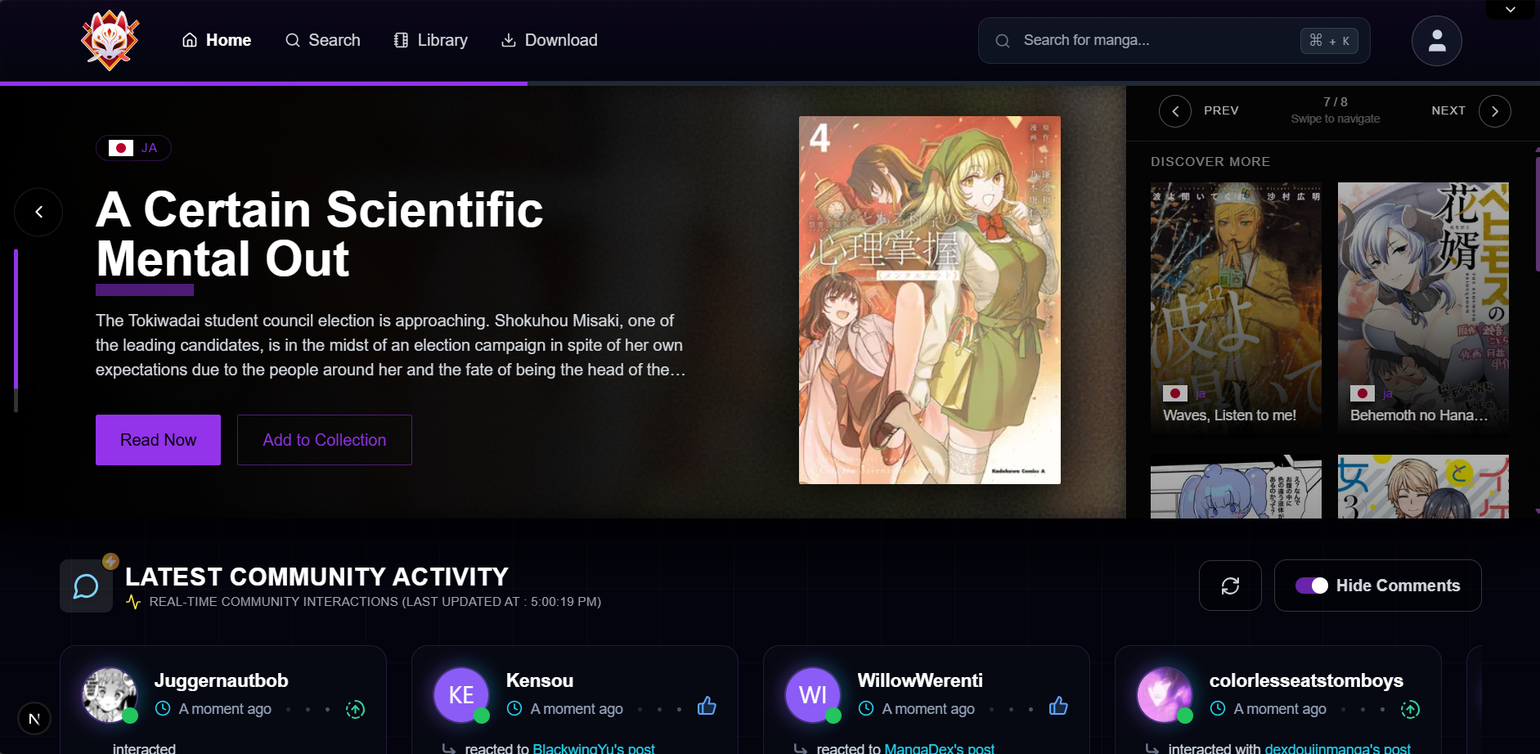
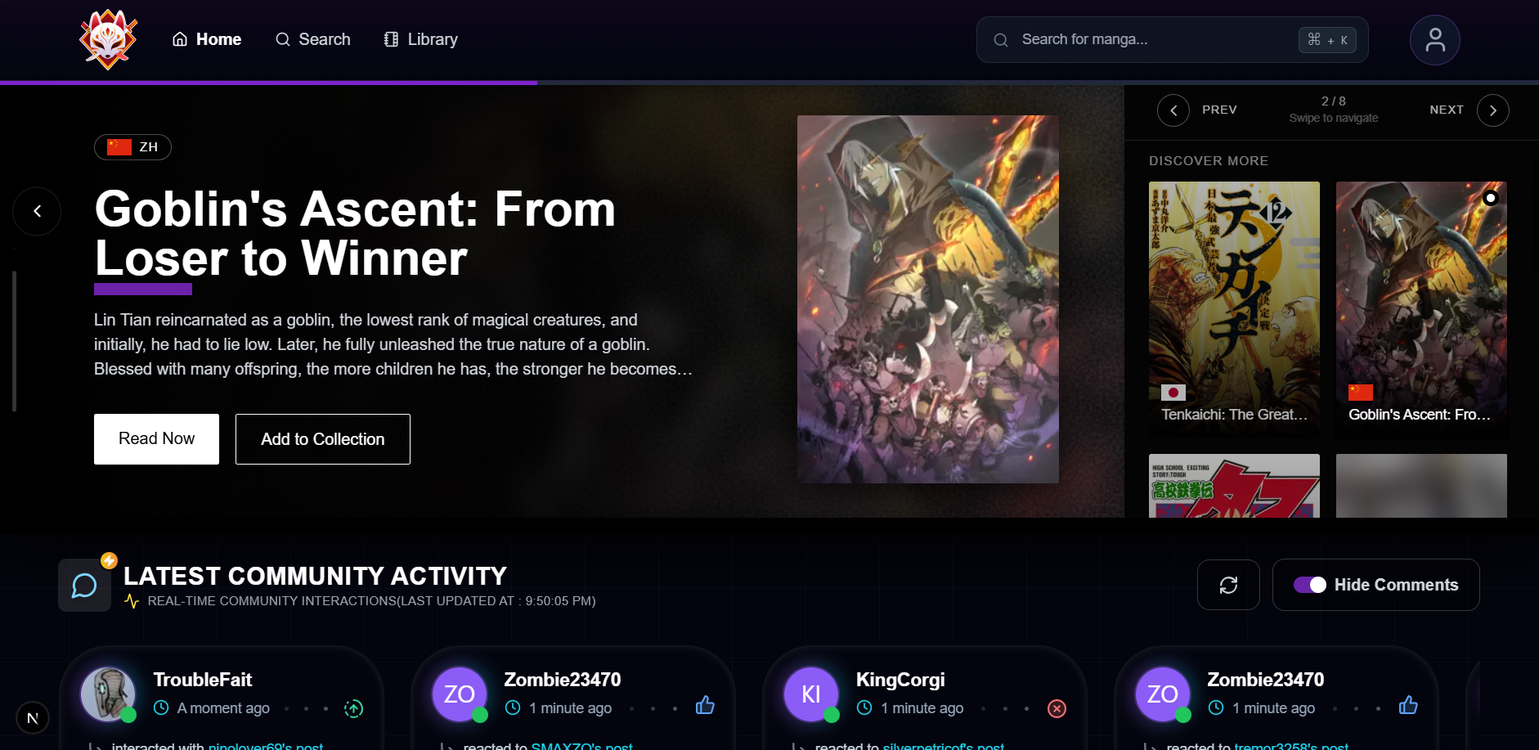
feat: Revamp MangaReadHistory component with enhanced UI and fixed the Ui bugs in LatestActivity - tried fixing multiple fetches of same thing over and over in manga-list - updated demo image of manga-list

diff --git a/app/Components/MangaListComponents/MangaReadHistory.jsx b/app/Components/MangaListComponents/MangaReadHistory.jsx
@@ -2,7 +2,7 @@
 import React, { useState, useEffect, useCallback, useMemo } from 'react';
 import Link from 'next/link';
 import { useManga } from '../../providers/MangaContext';
-import { BookOpen, ChevronDown, ChevronUp, Clock, TrendingUp, Eye, BookOpenCheck } from 'lucide-react';
+import { BookOpen, ChevronDown, ChevronUp, TrendingUp, Eye, BookOpenCheck, ArrowBigRightDash, Activity } from 'lucide-react';
 import Image from 'next/image';
 import MangaReadHistorySkeleton from '../Skeletons/MangaList/MangaReadHistorySkeleton';
 import { useTheme } from '../../providers/ThemeContext';
@@ -19,6 +19,7 @@ function MangaReadHistory() {
         const history = getAllFromReadHistory();
         setReadHistory(history ?? []);
     }, [getAllFromReadHistory]);
+    console.log(readHistory);
 
     const handleMangaCoverImageClicked = useCallback(
         (manga) => {
@@ -49,12 +50,12 @@ function MangaReadHistory() {
         }
 
         const totalChapters = item.allChaptersList.length;
-        const currentChapter = item.allChaptersList.findIndex(i => i.id === item.chapters[0].id) ?? 0;
-        const percentage = Math.min((currentChapter / totalChapters) * 100, 100);
+        // const currentChapter = item.allChaptersList.findIndex(i => i.id === item.chapters[0].id) ?? 0;
+        const percentage = Math.min((item.chapters.length / totalChapters) * 100, 100);
 
         return {
             percentage: Math.round(percentage),
-            current: currentChapter,
+            current: item?.chapters?.length,
             total: totalChapters,
         };
     }, []);
@@ -94,7 +95,7 @@ function MangaReadHistory() {
     if (readHistory.length == 0) return null
     return (
         <div className="w-[100% -12px] mx-2 md:ml-2 md:px-6 mb-6">
-            <div className="flex mb-7 items-center justify-between">
+            <div className="flex mb-7 items-center px-1.5 justify-between">
                 <div className="flex items-center gap-3">
                     <div className={`${isDark ? "bg-white/10" : "bg-gray-200/50"} p-3 rounded-lg`}>
                         <BookOpenCheck className={`w-6 h-6 ${isDark ? "text-cyan-300" : "text-cyan-600"} drop-shadow-md`} />
@@ -108,175 +109,149 @@ function MangaReadHistory() {
                         )}
                     </div>
                 </div>
-                <Link href={"/library"} onClick={() => window.scrollTo({ top: 0, behavior: 'smooth' })} className={`flex items-center gap-1.5 px-3 py-3.5 rounded-md text-sm ${isDark ? "text-gray-300 hover:text-white hover:bg-gray-800/50 border-gray-700/50" : "text-gray-600 hover:text-gray-900 hover:bg-gray-200/50 border-gray-300/50"} transition-all duration-200 border`}>
-                    <Eye className="w-4 h-4" />
-                    View All
+                <Link href={"/library"} onClick={() => window.scrollTo({ top: 0, behavior: 'smooth' })} className={`flex items-center gap-1.5 px-4 py-4 rounded-2xl text-sm ${isDark ? "text-gray-300 hover:text-white hover:bg-gray-800/50 border-gray-700/0  shadow-[inset_0_0_7px_rgba(200,200,200,0.16)]" : "text-gray-600 hover:text-gray-900 hover:bg-gray-200/50 border-gray-300/50"} transition-all duration-200 border`}>
+                      View All
+                    <ArrowBigRightDash className="w-5 h-5" />
+                  
                 </Link>
             </div>
 
             <div className="space-y-4">
                 {readHistory.length === 0 ? (
-                    <div className={`flex flex-col items-center sm:ml-2 mt-4 md:mt-11 justify-center py-6 md:py-10 px-4 ${isDark ? "bg-gradient-to-br from-gray-900/50 to-gray-800/30" : "bg-gradient-to-br from-gray-200/50 to-gray-100/30"} rounded-xl backdrop-blur-sm relative overflow-hidden`}>
-                        <div className="relative z-10 flex flex-col items-center">
-                            <div className={`w-16 h-16 md:w-20 md:h-20 ${isDark ? "bg-gradient-to-br from-purple-500/20 to-blue-500/20" : "bg-gradient-to-br from-purple-400/20 to-blue-400/20"} rounded-lg md:rounded-full flex items-center justify-center mb-3 md:mb-6 shadow-lg`}>
-                                <BookOpen className={`w-10 h-10 ${isDark ? "text-purple-400" : "text-purple-600"}`} />
-                            </div>
-                            <h3 className={`text-lg md:text-xl font-semibold ${isDark ? "text-gray-200" : "text-gray-800"} mb-1 md:mb-3`}>No Reading History Yet</h3>
-                            <p className={`text-center text-[10px] md:text-sm max-w-sm leading-relaxed ${isDark ? "text-gray-400" : "text-gray-600"} mb-4`}>
-                                Start your manga journey and build your personalized reading history
-                            </p>
-                            <div className={`items-center gap-2 hidden sm:flex text-xs ${isDark ? "text-gray-500" : "text-gray-600"}`}>
-                                <TrendingUp className="w-3.5 h-3.5" />
-                                <span>Track your progress automatically</span>
-                            </div>
+                    <div className={`rounded-xl p-6 text-center ${isDark ? "bg-gradient-to-br from-gray-900/60 to-purple-900/40" : "bg-gradient-to-br from-gray-100/60 to-purple-100/40"} shadow-lg`}>
+                        <BookOpen className={`mx-auto w-12 h-12 ${isDark ? "text-purple-400" : "text-purple-600"} mb-3`} />
+                        <h3 className={`text-lg font-semibold ${isDark ? "text-gray-200" : "text-gray-800"}`}>No Reading History</h3>
+                        <p className={`text-sm ${isDark ? "text-gray-400" : "text-gray-600"} mt-1`}>Start reading to build your manga history!</p>
+                        <div className={`mt-3 flex items-center justify-center gap-2 text-xs ${isDark ? "text-gray-400" : "text-gray-600"}`}>
+                            <TrendingUp className="w-4 h-4" />
+                            <span>Track your progress automatically</span>
                         </div>
                     </div>
                 ) : (
                     <>
-                        <div className="hidden sm:block space-y-3">
-                            {sortedReadHistory
-                                .slice(0, shownMangasInHistory)
-                                .map((item, index) => {
-                                    const progress = calculateProgress(item);
-                                    return (
-                                        <div
-                                            key={`${item.manga.id}-${index}`}
-                                            className={`group relative rounded-xl border ${isDark ? "border-white/10" : "border-gray-300/50"} backdrop-blur-sm overflow-hidden`}
-                                            style={{
-                                                animationDelay: `${index * 100}ms`,
-                                            }}
-                                        >
-                                            <div className={`absolute inset-0 ${isDark ? "bg-gradient-to-r from-purple-600/5 to-blue-600/5" : "bg-gradient-to-r from-purple-400/5 to-blue-400/5"} opacity-0 group-hover:opacity-100 transition-opacity duration-300`} />
-                                            <div className="relative flex items-center p-2 gap-3">
-                                                <Link
-                                                    href={`/manga/${item.manga.id}/chapters`}
-                                                    prefetch={true}
-                                                    onClick={() => handleMangaCoverImageClicked(item.manga)}
-                                                    className="relative cursor-pointer group/cover flex-shrink-0"
-                                                >
-                                                    <div className={`relative w-20 h-24 rounded-md overflow-hidden group-hover/cover:border-purple-500/50 transition-colors duration-200 shadow-lg`}>
-                                                        <Image
-                                                            width={64}
-                                                            height={80}
-                                                            src={item.manga.coverImageUrl}
-                                                            alt={item.manga.title}
-                                                            className="w-full h-full object-cover group-hover/cover:scale-105 transition-transform duration-300"
-                                                            onError={(e) => {
-                                                                e.target.src =
[1 lines of base64/hex data omitted]
-                                                            }}
-                                                        />
-                                                        <div className={`absolute inset-0 ${isDark ? "bg-black/20" : "bg-gray-900/20"} opacity-0 group-hover/cover:opacity-100 transition-opacity duration-200 flex items-center justify-center`}>
-                                                            <Eye className={`w-6 h-6 ${isDark ? "text-white/80" : "text-gray-200/80"}`} />
-                                                        </div>
+                        <div
+                            style={{
+                                scrollbarWidth: "thin",
+                                scrollbarColor: `${isDark ? "rgba(147, 51, 234, 0.6) rgba(0, 0, 0, 0.1)" : "rgba(147, 51, 234, 0.6) rgba(0, 0, 0, 0.1)"}`,
+                            }}
+                            className="space-y-3 overflow-y-auto px-0.5 max-h-[350px]">
+                            {sortedReadHistory.slice(0, shownMangasInHistory).map((item, index) => {
+                                const progress = calculateProgress(item);
+                                return (
+                                    <div
+                                        key={`${item.manga.id}-${index}`}
+                                        className={`relative hidden sm:block rounded-[30px] pl-2 pr-4 ${isDark ? "bg-gray-900/10 border-gray-700/30 hover:border hover:border-gray-400/20 shadow-[inset_0_0_10px_rgba(255,255,255,0.14)]" : "bg-white border-gray-200/10 hover:border hover:border-gray-400/20 shadow-black/20 hover:shadow-md"} border shadow-sm   transform -translate-y-0.5 hover:-translate-y-1 transition-all duration-0 overflow-hidden`}
+                                        style={{ animation: `slideIn ${0.2 + index * 0.1}s ease-out` }}
+                                    >
+                                        <div className={`absolute inset-0 ${isDark ? "bg-gradient-to-r from-purple-500/10 to-cyan-500/10" : "bg-gradient-to-r from-purple-300/10 to-cyan-300/10"} opacity-0 hover:opacity-100 transition-opacity duration-300`} />
+                                        <div className="relative flex items-center p-3 gap-3">
+                                            <Link
+                                                href={`/manga/${item.manga.id}/chapters`}
+                                                prefetch={true}
+                                                onClick={() => handleMangaCoverImageClicked(item.manga)}
+                                                className="flex-shrink-0"
+                                            >
+                                                <div className={`relative w-16 h-16 rounded-full overflow-hidden shadow-sm group`}>
+                                                    <Image
+                                                        width={64}
+                                                        height={96}
+                                                        src={item.manga.coverImageUrl}
+                                                        alt={item.manga.title}
+                                                        className="w-full h-full object-cover group-hover:scale-105 transition-transform duration-300"
+                                                        onError={(e) => {
[1 lines of base64/hex data omitted]
+                                                        }}
+                                                    />
+                                                    <div className={`absolute inset-0 ${isDark ? "bg-black/20" : "bg-gray-900/20"} opacity-0 group-hover:opacity-100 transition-opacity duration-200 flex items-center justify-center`}>
+                                                        <Eye className={`w-5 h-5 ${isDark ? "text-white" : "text-gray-200"}`} />
                                                     </div>
-                                                </Link>
-
-                                                <div className="flex-1 min-w-0 space-y-2">
-                                                    <div className="flex flex-row gap-3 w-full items-center justify-between">
-                                                        <div className="flex flex-col w-full items-start justify-between space-y-2">
-                                                            <Link
-                                                                href={`/manga/${item.manga.id}/chapters`}
-                                                                prefetch={true}
-                                                                onClick={() => handleMangaCoverImageClicked(item.manga)}
-                                                                className={`font-semibold text-sm mb-1 line-clamp-1 cursor-pointer transition-colors duration-200 ${isDark ? "text-white hover:text-purple-300" : "text-gray-900 hover:text-purple-600"}`}
-                                                            >
-                                                                {item.manga.title}
-                                                            </Link>
-
-                                                            <div className="flex-shrink-0">
-                                                                {item.chapters?.slice(0, 1).map((chapter, chapterIndex) => (
-                                                                    <Link
-                                                                        key={chapterIndex}
-                                                                        href={`/manga/${item.manga.id}/chapter/${chapter.id}/read`}
-                                                                        prefetch={true}
-                                                                        onClick={() => handleChapterClicked(item.manga, chapter, item.allChaptersList)}
-                                                                        className={`flex items-center gap-2 cursor-pointer group/chapter mb-2`}
-                                                                    >
-                                                                        <div className={`flex items-center gap-1.5 text-xs ${isDark ? "text-gray-400 group-hover/chapter:text-purple-300" : "text-gray-600 group-hover/chapter:text-purple-600"} transition-colors duration-200`}>
-                                                                            <Clock className="w-3 h-3" />
-                                                                            <span>Chapter {chapter.chapter}</span>
-                                                                        </div>
-                                                                        <div className={`w-1 h-1 ${isDark ? "bg-gray-600" : "bg-gray-400"} rounded-full`} />
-                                                                        <span className={`text-xs ${isDark ? "text-gray-500" : "text-gray-600"}`}>
-                                                                            {formatTimeAgo(item.lastReadAT)}
-                                                                        </span>
-                                                                    </Link>
-                                                                ))}
-                                                            </div>
-                                                        </div>
-
-                                                        <div className="relative w-fit flex justify-end h-full">
-                                                            {item.chapters?.slice(0, 1).map((chapter, chapterIndex) => (
-                                                                <Link
-                                                                    key={chapterIndex}
-                                                                    href={`/manga/${item.manga.id}/chapter/${chapter.id}/read`}
-                                                                    prefetch={true}
-                                                                    onClick={() => handleChapterClicked(item.manga, chapter, item.allChaptersList)}
-                                                                    className={`group/btn h-full w-20 relative px-4 py-5 border ${isDark ? "border-white/10 text-gray-300 hover:text-white" : "border-gray-300/50 text-gray-600 hover:text-gray-900"} rounded-lg text-xs font-medium transition-all duration-200 backdrop-blur-sm overflow-hidden inline-flex items-center justify-center`}
-                                                                >
-                                                                    <div className={`absolute w-full inset-0 ${isDark ? "bg-white/10" : "bg-gray-200/50"} translate-y-full group-hover/btn:translate-y-0 transition-transform duration-200`} />
-                                                                    <span className="relative flex items-center gap-1.5">
-                                                                        <Eye className="w-3.5 h-3.5" />
-                                                                        Read
-                                                                    </span>
-                                                                </Link>
-                                                            ))}
-                                                        </div>
-                                                    </div>
-
+                                                </div>
+                                            </Link>
+                                            <div className="flex-1 min-w-0 space-y-2">
+                                                <div className="flex flex-col sm:flex-row sm:items-center sm:justify-between gap-2">
                                                     <div className="space-y-1">
-                                                        <div className="flex items-center justify-between text-xs">
-                                                            <span className={`${isDark ? "text-gray-400" : "text-gray-600"}`}>
-                                                                Progress: {progress.current}/{progress.total} chapters
-                                                            </span>
-                                                            <span className={`font-medium ${isDark ? "text-white" : "text-gray-900"}`}>{progress.percentage}%</span>
-                                                        </div>
-                                                        <div className={`w-full ${isDark ? "bg-gray-700/50" : "bg-gray-300/50"} rounded-full h-1.5 overflow-hidden`}>
-                                                            <div
-                                                                className={`h-full ${isDark ? "bg-gray-200" : "bg-gray-900"} rounded-full transition-all duration-500 ease-out relative`}
-                                                                style={{ width: `${progress.percentage}%` }}
+                                                        <Link
+                                                            href={`/manga/${item.manga.id}/chapters`}
+                                                            prefetch={true}
+                                                            onClick={() => handleMangaCoverImageClicked(item.manga)}
+                                                            className={`text-base font-semibold line-clamp-1 ${isDark ? "text-white hover:text-purple-300" : "text-gray-900 hover:text-purple-600"} transition-colors duration-200`}
+                                                        >
+                                                            {item.manga.title}
+                                                        </Link>
+                                                        {item.chapters?.slice(0, 1).map((chapter, chapterIndex) => (
+                                                            <Link
+                                                                key={chapterIndex}
+                                                                href={`/manga/${item.manga.id}/chapter/${chapter.id}/read`}
+                                                                prefetch={true}
+                                                                onClick={() => handleChapterClicked(item.manga, chapter, item.allChaptersList)}
+                                                                className={`flex items-center ml-2 gap-1.5 text-xs ${isDark ? "text-gray-400 " : "text-gray-600"} transition-colors duration-200`}
                                                             >
-                                                                <div className={`absolute inset-0 ${isDark ? "bg-white/20" : "bg-gray-200/20"} animate-pulse`} />
-                                                            </div>
-                                                        </div>
+                                                                <Activity strokeWidth={4} className="w-5 h-3.5" />
+                                                                <span className='font-semibold'>Chapter {chapter.chapter}</span>
+                                                                <span className="mx-1 text-[15px]">•</span>
+                                                                <span className='opacity-60'>{formatTimeAgo(item.lastReadAT)}</span>
+                                                            </Link>
+                                                        ))}
+                                                    </div>
+                                                    <Link
+                                                        href={`/manga/${item.manga.id}/chapter/${item.chapters?.[0]?.id}/read`}
+                                                        prefetch={true}
+                                                        onClick={() => handleChapterClicked(item.manga, item.chapters?.[0], item.allChaptersList)}
+                                                        className={`flex items-center ml-2 justify-center gap-1.5 px-2.5 py-2.5 rounded-2xl text-xs font-medium ${isDark ? "border border-white/20 text-white bg-gray-500/10" : "bg-black/5 border border-black/10 text-gray-900 hover:bg-purple-100/70"} transition-all duration-200 shadow-sm hover:shadow-md`}
+                                                    >
+                                                        <ArrowBigRightDash strokeWidth={1.5} className="w-5 h-5" />
+                                                        {/* Continue */}
+                                                    </Link>
+                                                </div>
+                                                <div className="space-y-1.5">
+                                                    <div className="flex items-center justify-between text-xs">
+                                                        <span className={`${isDark ? "text-gray-400" : "text-gray-600"}`}>Progress: {progress.current}/{progress.total}</span>
+                                                        <span className={`font-medium ${isDark ? "text-white" : "text-gray-900"}`}>{progress.percentage}%</span>
+                                                    </div>
+                                                    <div className={`w-full ${isDark ? "bg-gray-700/30" : "bg-gray-200/30"} rounded-full h-1.5 overflow-hidden`}>
+                                                        <div
+                                                            className={`h-full ${isDark ? "bg-white" : "bg-black"} rounded-full transition-all duration-500 ease-out`}
+                                                            style={{ width: `${progress.percentage}%` }}
+                                                        />
                                                     </div>
                                                 </div>
                                             </div>
                                         </div>
-                                    );
-                                })}
+                                    </div>
+                                );
+                            })}
                         </div>
 
                         <div
                             style={{
                                 scrollbarWidth: "thin",
-                                scrollbarColor: "rgba(155, 89, 182, 0.6) rgba(0, 0, 0, 0.1)",
+                                scrollbarColor: `${isDark ? "rgba(147, 51, 234, 0.6) rgba(0, 0, 0, 0.1)" : "rgba(147, 51, 234, 0.6) rgba(0, 0, 0, 0.1)"}`,
                             }}
-                            className="flex sm:hidden gap-2 overflow-x-auto pb-4">
+                            className="flex sm:hidden gap-2 overflow-x-auto py-3 -mx-4 px-4"
+                        >
                             {sortedReadHistory.map((item, index) => (
                                 <Link
                                     key={`mobile-${item.manga.id}-${index}`}
                                     href={`/manga/${item.manga.id}/chapters`}
                                     prefetch={true}
                                     onClick={() => handleMangaCoverImageClicked(item.manga)}
-                                    className="flex-shrink-0 w-24 cursor-pointer"
+                                    className="flex-shrink-0 w-24"
                                 >
-                                    <div className={`relative w-24 h-32 border ${isDark ? "border-white/30 shadow-yellow-400" : "border-gray-300/50 shadow-yellow-600"} shadow-sm rounded overflow-hidden`}>
+                                    <div className={`relative w-24 h-32 rounded-md overflow-hidden border ${isDark ? "border-gray-700/50 shadow-purple-400/20" : "border-gray-200/50 shadow-purple-600/20"} shadow-sm hover:shadow-md transition-all duration-300`}>
                                         <Image
                                             src={item.manga.coverImageUrl}
                                             alt={item.manga.title}
                                             fill
-                                            className="object-cover"
+                                            className="object-cover group-hover:scale-105 transition-transform duration-300"
                                             onError={(e) => {
-                                                e.target.src =
[2 lines of base64/hex data omitted]
                                             }}
                                         />
+                                        <div className={`absolute inset-0 ${isDark ? "bg-black/20" : "bg-gray-900/20"} opacity-0 hover:opacity-100 transition-opacity duration-200 flex items-center justify-center`}>
+                                            <Eye className={`w-5 h-5 ${isDark ? "text-white" : "text-gray-200"}`} />
+                                        </div>
                                     </div>
-                                    <h3 className={`mt-2 text-[10px] font-semibold text-center ${isDark ? "text-white" : "text-gray-900"} line-clamp-2`}>
-                                        {item.manga.title}
-                                    </h3>
+                                    <h3 className={`mt-1.5 text-xs font-semibold text-center ${isDark ? "text-white" : "text-gray-900"} line-clamp-2`}>{item.manga.title}</h3>
                                 </Link>
                             ))}
                         </div>
@@ -284,17 +259,17 @@ function MangaReadHistory() {
                         {readHistory.length > 2 && (
                             <button
                                 onClick={handleToggleExpand}
-                                className={`w-full hidden sm:flex items-center justify-center gap-2 py-2.5 text-sm font-medium ${isDark ? "text-gray-400 hover:text-gray-300 hover:bg-gray-800/30" : "text-gray-600 hover:text-gray-900 hover:bg-gray-200/30"} rounded-lg transition-all duration-200`}
+                                className={`w-full sm:flex hidden items-center justify-center gap-1.5 py-2 rounded-md text-sm font-medium ${isDark ? "bg-gray-800/10 text-gray-300 hover:bg-gray-800/60 hover:text-white" : "bg-gray-100/10 text-gray-700 hover:bg-gray-100/60 hover:text-gray-900"} transition-all duration-200 shadow-sm hover:shadow-md`}
                             >
                                 {isExpanded ? (
                                     <>
                                         <ChevronUp className="w-4 h-4" />
-                                        <span>Show less</span>
+                                        Show Less
                                     </>
                                 ) : (
                                     <>
                                         <ChevronDown className="w-4 h-4" />
-                                        <span>Show more</span>
+                                        Show More
                                     </>
                                 )}
                             </button>

diff --git a/app/hooks/useMangaFetch.js b/app/hooks/useMangaFetch.js
@@ -22,7 +22,7 @@ export const fetchMangaType = async (type, page) => {
   // Do the network request
   try {
     // fetch(`/api/manga/${type}?page=${page}`, { next: { revalidate: 60 } })
-    const res = await fetch(`/api/manga/${type}?page=${page}`);
+    const res = await fetch(`/api/manga/${type}?page=${page}`, { next: { revalidate: 60 } });
     if (!res.ok) {
       const errText = await res.text().catch(() => res.statusText);
       // mark as failed so subsequent calls won't read cached data
@@ -48,7 +48,7 @@ export const useMangaFetch = (type, page) => {
     queryFn: () => fetchMangaType(type, page),
     staleTime: 60 * 60 * 1000,
     gcTime: 2 * 60 * 60 * 1000,
-    refetchOnMount: 'always',
+    refetchOnMount: true, // Changed from 'always' to true (default behavior: refetch only if stale)
     refetchOnWindowFocus: false,
     refetchOnReconnect: false,
     retry: 2,
@@ -64,10 +64,9 @@ export const useMangaFetch = (type, page) => {
   });
 
   useEffect(() => {
-    // If the stored raw entry is tainted, invalidate so react-query
-    // picks up fresh data (or triggers retry according to retry policy).
+    // If the stored raw entry is tainted (exists but ok === false), invalidate to force a retry
     const raw = getRawFromStorage(cacheKey);
-    if (!raw || raw.ok === false) {
+    if (raw && raw.ok === false) {
       queryClient.invalidateQueries(['manga', type, page]);
     }
     // eslint-disable-next-line react-hooks/exhaustive-deps

diff --git a/app/Components/MangaListComponents/LatestActivityComments.jsx b/app/Components/MangaListComponents/LatestActivityComments.jsx
@@ -345,7 +345,7 @@ const LatestComments = () => {
                                         key={comment.id ?? index}
                                         className="flex-shrink-0 w-80 relative group"
                                     >
-                                        <div className={`relative ${showMore[comment.id] ? "h-auto" : "h-[295px]"} ${isDark ? "bg-gray-800/10 border-purple-500/20 hover:border-purple-500/40" : "bg-gray-100/50 border-purple-400/20 hover:border-purple-400/40"} mt-1 backdrop-blur-2xl overflow-hidden border rounded-[50px] p-5 pb-0 transition-all duration-0 shadow-xl`}>
+                                        <div className={`relative ${showMore[comment.id] ? "h-auto" : "h-[295px]"} ${isDark ? " border-purple-500/0 hover:scale-[101%] shadow-[inset_0_0_7px_rgba(200,200,200,0.16)]" : "bg-white border-purple-400/20 hover:border-purple-400/40"} mt-1 backdrop-blur-2xl overflow-hidden border rounded-[50px] p-5 pb-0 transition-all duration-0 shadow-md`}>
                                             <div className="flex items-start space-x-4 mb-4">
                                                 <div className="relative">
                                                     <div className={`absolute -inset-1 ${isDark ? "bg-gradient-to-r from-purple-500/80 to-cyan-500/80" : "bg-gradient-to-r from-purple-400/80 to-cyan-400/80"} rounded-full blur opacity-40`}></div>
